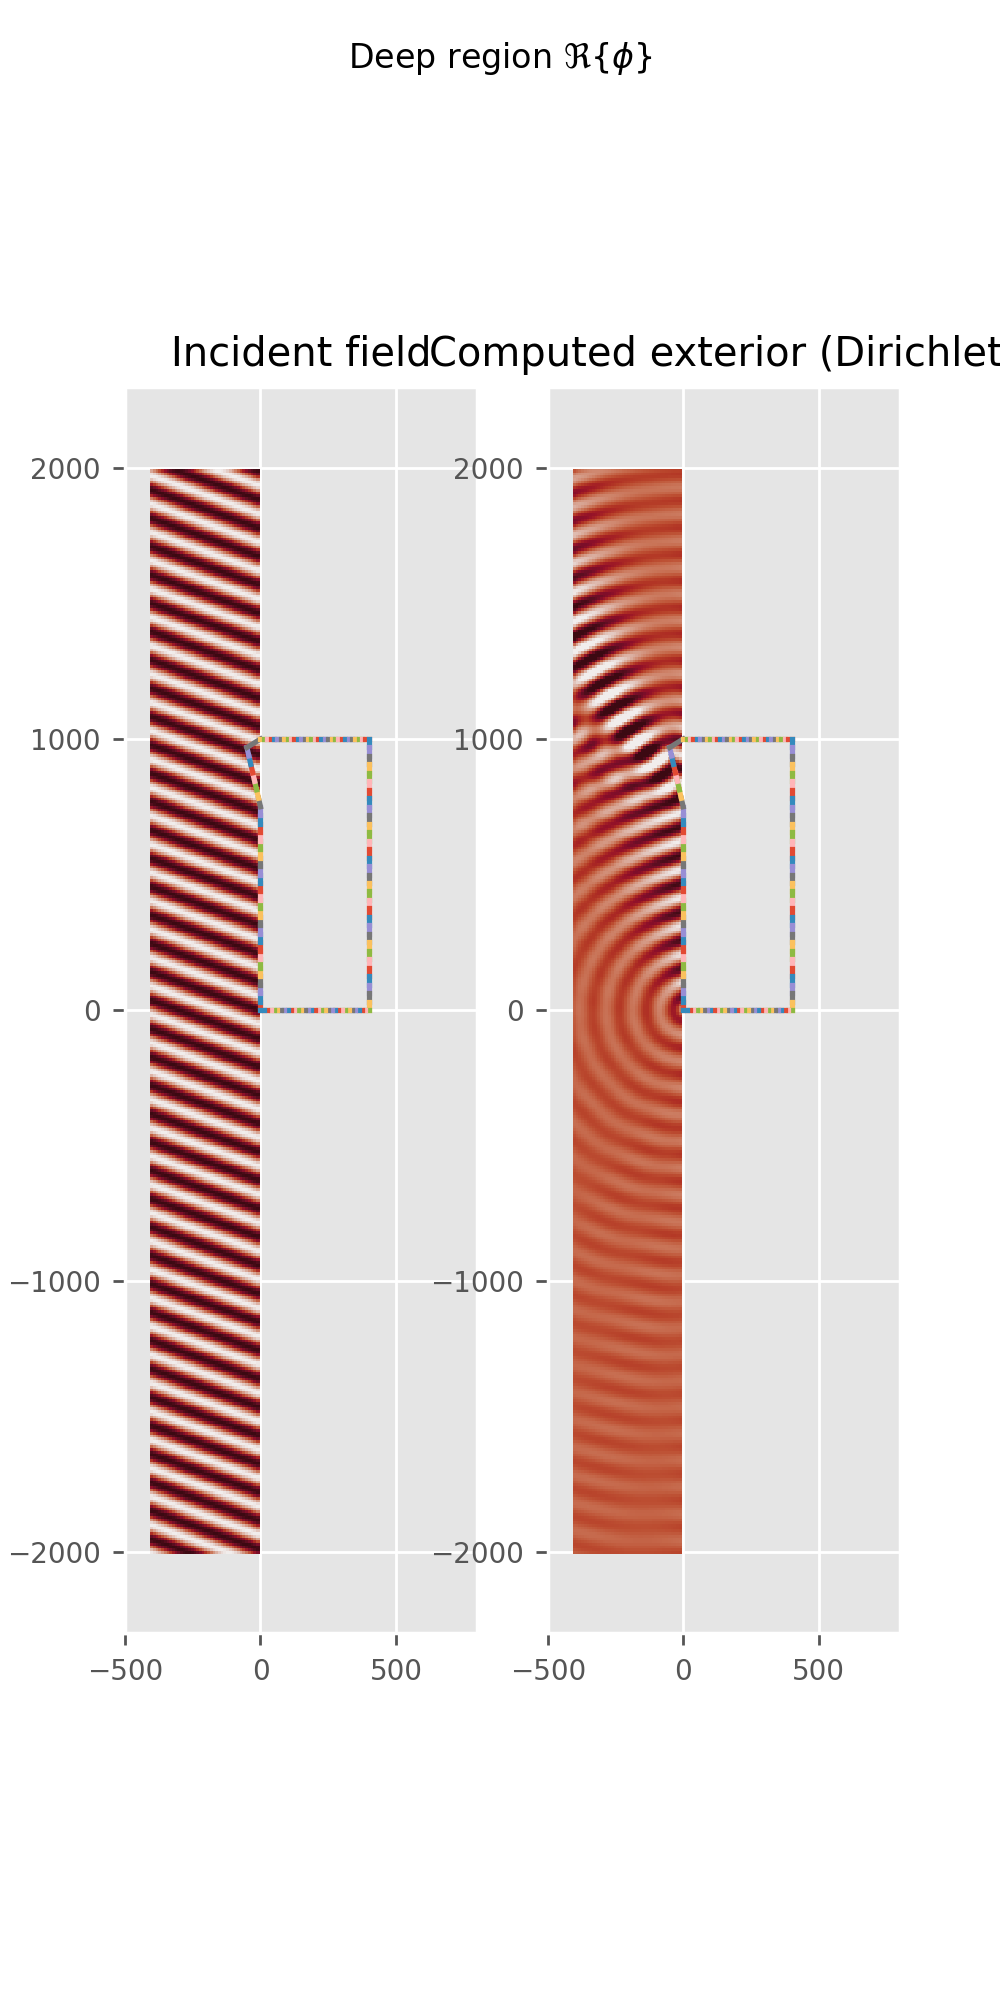
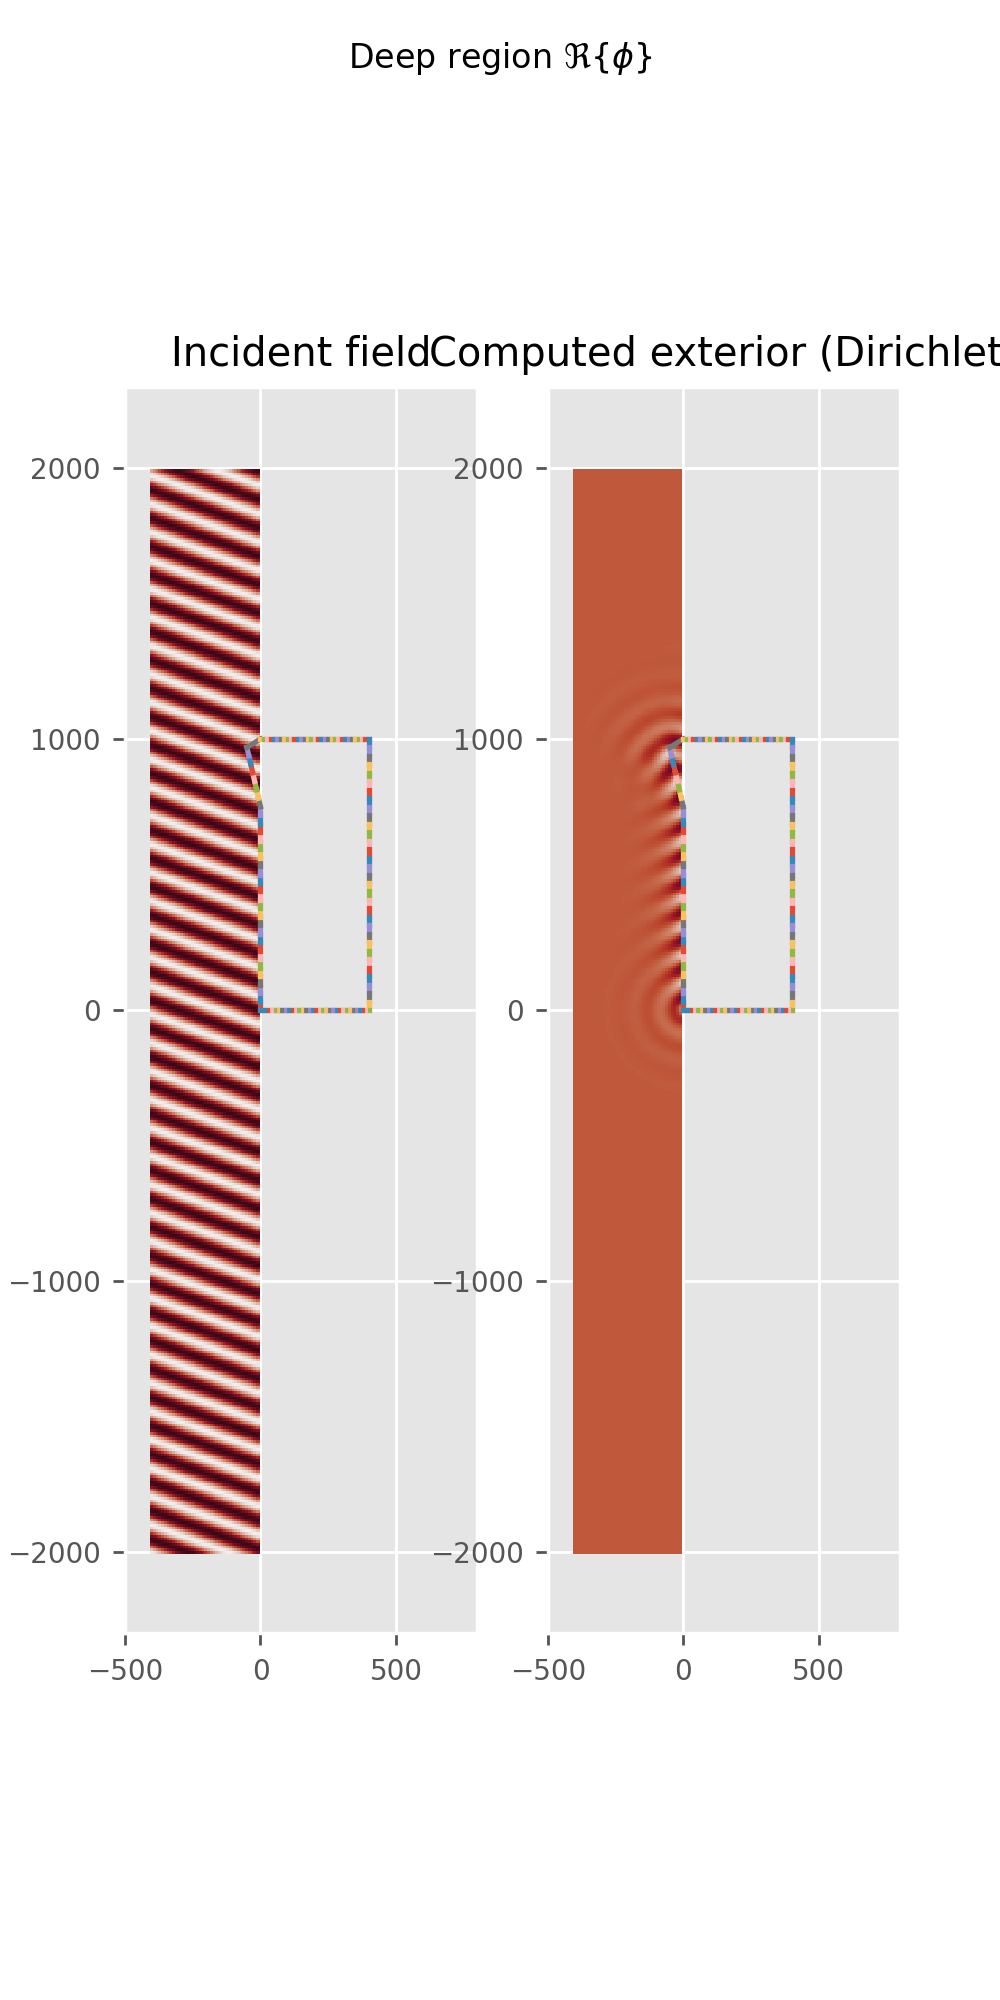
integrator, solver: allow complex wave number (positive imaginary part is attenuation)

Changed region(s): [[0.558, 0.217, 0.682, 0.651]]

diff --git a/src/integrators.rs b/src/integrators.rs
@@ -1,7 +1,7 @@
 use std::f64::consts::PI;
 
 use ndarray_linalg::Norm;
-use num::{complex::c64, Complex};
+use num::{complex::c64, complex::ComplexFloat, Complex};
 use numpy::{Complex64, PyReadonlyArrayDyn};
 use pyo3::prelude::*;
 
@@ -57,15 +57,14 @@ where
 /// p: point (center of edge)
 /// qa: first vertex of edge
 /// qb: second vertex of edge
-pub fn l_2d(k: f64, p: A2, qa: A2, qb: A2, p_on_element: bool) -> Complex<f64> {
-    assert!(k > 0.0, "wavenumber==0 not supported");
+pub fn l_2d(k: Complex64, p: A2, qa: A2, qb: A2, p_on_element: bool) -> Complex<f64> {
+    assert!(k.abs() > 0.0, "wavenumber==0 not supported");
 
     // TODO: Possibly put in a different function.
     if p_on_element {
         let int = |x: A2| -> Complex<f64> {
             let R = (p.to_owned() - x).norm_l2();
-            return 0.5 / PI * f64::ln(R)
-                + Complex::new(0.0, 0.25) * hankel1(0.0, Complex::new(k, 0.0) * R);
+            return 0.5 / PI * f64::ln(R) + Complex::new(0.0, 0.25) * hankel1(0.0, k * R);
         };
 
         let ra = (&p - &qa).norm_l2();
@@ -79,7 +78,7 @@ pub fn l_2d(k: f64, p: A2, qa: A2, qb: A2, p_on_element: bool) -> Complex<f64> {
         // complex quad
         Complex::new(0.0, 0.25)
             * complex_quad_2d(&qa, &qb, |q: A2| {
-                hankel1(0.0, Complex::new(k, 0.0) * (p.to_owned() - q).norm_l2())
+                hankel1(0.0, k * (p.to_owned() - q).norm_l2())
             })
     }
 }
@@ -90,8 +89,8 @@ pub fn l_2d(k: f64, p: A2, qa: A2, qb: A2, p_on_element: bool) -> Complex<f64> {
 /// p: point (center of edge)
 /// qa: first vertex of edge
 /// qb: second vertex of edge
-pub fn m_2d(k: f64, p: A2, qa: A2, qb: A2, p_on_element: bool) -> Complex<f64> {
-    assert!(k > 0.0, "wavenumber==0 not supported");
+pub fn m_2d(k: Complex64, p: A2, qa: A2, qb: A2, p_on_element: bool) -> Complex<f64> {
+    assert!(k.abs() > 0.0, "wavenumber==0 not supported");
 
     let (vecq, _) = normal_2d(qa, qb);
 
@@ -101,7 +100,7 @@ pub fn m_2d(k: f64, p: A2, qa: A2, qb: A2, p_on_element: bool) -> Complex<f64> {
         let int = |x: A2| {
             let r = p.to_owned() - x;
             let R = r.norm_l2();
-            return hankel1(1.0, Complex::new(k, 0.) * R) * r.dot(&vecq) / R;
+            return hankel1(1.0, k * R) * r.dot(&vecq) / R;
         };
 
         Complex::new(0., 0.25) * k * complex_quad_2d(&qa, &qb, int)
@@ -114,8 +113,8 @@ pub fn m_2d(k: f64, p: A2, qa: A2, qb: A2, p_on_element: bool) -> Complex<f64> {
 /// p: point (center of edge)
 /// qa: first vertex of edge
 /// qb: second vertex of edge
-pub fn mt_2d(k: f64, p: A2, vecp: A2, qa: A2, qb: A2, p_on_element: bool) -> Complex<f64> {
-    assert!(k > 0.0, "wavenumber==0 not supported");
+pub fn mt_2d(k: Complex64, p: A2, vecp: A2, qa: A2, qb: A2, p_on_element: bool) -> Complex<f64> {
+    assert!(k.abs() > 0.0, "wavenumber==0 not supported");
 
     if p_on_element {
         Complex::new(0.0, 0.0)
@@ -123,7 +122,7 @@ pub fn mt_2d(k: f64, p: A2, vecp: A2, qa: A2, qb: A2, p_on_element: bool) -> Com
         let int = |x: A2| {
             let r = p.to_owned() - x;
             let R = r.norm_l2();
-            return hankel1(1.0, Complex::new(k, 0.) * R) * r.dot(&vecp) / R;
+            return hankel1(1.0, k * R) * r.dot(&vecp) / R;
         };
 
         Complex::new(0., -0.25) * k * complex_quad_2d(&qa, &qb, int)
@@ -136,8 +135,8 @@ pub fn mt_2d(k: f64, p: A2, vecp: A2, qa: A2, qb: A2, p_on_element: bool) -> Com
 /// p: point (center of edge)
 /// qa: first vertex of edge
 /// qb: second vertex of edge
-pub fn n_2d(k: f64, p: A2, vecp: A2, qa: A2, qb: A2, p_on_element: bool) -> Complex<f64> {
-    assert!(k > 0.0, "wavenumber==0 not supported");
+pub fn n_2d(k: Complex64, p: A2, vecp: A2, qa: A2, qb: A2, p_on_element: bool) -> Complex<f64> {
+    assert!(k.abs() > 0.0, "wavenumber==0 not supported");
 
     let (vecq, _) = normal_2d(qa, qb);
 
@@ -155,12 +154,12 @@ pub fn n_2d(k: f64, p: A2, vecp: A2, qa: A2, qb: A2, p_on_element: bool) -> Comp
             let drdudrdn = -r.dot(&vecq) * r.dot(&vecp) / R2;
             let dpnu = vecp.dot(&vecq);
 
-            let hkr = hankel1(1., c64(k, 0.) * R);
+            let hkr = hankel1(1., k * R);
 
             let c1 = c64(0., 0.25) * k / R * hkr - 0.5 / (PI * R2);
 
             let c2 = c64(0., 0.5) * k / R * hkr
-                - c64(0., 0.25) * ksq * hankel1(0., c64(k, 0.) * R)
+                - c64(0., 0.25) * ksq * hankel1(0., k * R)
                 - 1.0 / (PI * R2);
 
             let c3 = -0.25 * ksq * R.ln() / PI;
@@ -188,7 +187,6 @@ pub fn n_2d(k: f64, p: A2, vecp: A2, qa: A2, qb: A2, p_on_element: bool) -> Comp
             let drdudrdn = -r.dot(&vecq) * r.dot(&vecp) / r.dot(&r);
             let R = r.norm_l2();
 
-            let k = c64(k, 0.);
             return hankel1(1., k * R) / R * (un + 2. * drdudrdn)
                 - k * hankel1(0., k * R) * drdudrdn;
         };
@@ -210,15 +208,15 @@ pub fn l_2d_py<'py>(
     let qa = qa.as_array().into_shape((2,)).unwrap();
     let qb = qb.as_array().into_shape((2,)).unwrap();
 
-    l_2d(k, p, qa, qb, p_on_element)
+    l_2d(c64(k, 0.), p, qa, qb, p_on_element)
 }
 
 #[cfg(test)]
 mod tests {
     use super::*;
+    use ndarray::Array1;
     use numpy::array;
     use std::sync::LazyLock;
-    use ndarray::Array1;
 
     const a: LazyLock<Array1<f64>> = LazyLock::new(|| array![0.5, 0.00]);
     const b: LazyLock<Array1<f64>> = LazyLock::new(|| array![0.0, 0.25]);
@@ -293,13 +291,13 @@ mod tests {
         let gld = Complex::new(-0.38848700688676e-2, 0.18666063352484e-1);
         let k = 16.0;
         // p_on_element = False
-        let r = l_2d(k, p_off.view(), a.view(), b.view(), false);
+        let r = l_2d(k.into(), p_off.view(), a.view(), b.view(), false);
         approx::assert_abs_diff_eq!(r, gld, epsilon = 1e-6);
 
         let gld = c64(-0.10438221373809e-1, 0.26590088538927e-1);
         let k = 16.0;
 
-        let r = l_2d(k, p_on.view(), a.view(), b.view(), true);
+        let r = l_2d(k.into(), p_on.view(), a.view(), b.view(), true);
         approx::assert_abs_diff_eq!(r, gld, epsilon = 1e-6);
     }
 
@@ -308,11 +306,11 @@ mod tests {
         let gld = c64(-0.295962840153050, -0.65862830497453e-1);
         let k = 16.0;
 
-        let r = m_2d(k, p_off.view(), a.view(), b.view(), false);
+        let r = m_2d(k.into(), p_off.view(), a.view(), b.view(), false);
         approx::assert_abs_diff_eq!(r, gld, epsilon = 1e-6);
 
         let gld = c64(0.00000000000000, 0.00000000000000);
-        let r = m_2d(k, p_on.view(), a.view(), b.view(), true);
+        let r = m_2d(k.into(), p_on.view(), a.view(), b.view(), true);
         approx::assert_abs_diff_eq!(r, gld, epsilon = 1e-6);
     }
 
@@ -320,11 +318,25 @@ mod tests {
     fn test_mt_2d() {
         let gld = c64(0.27354006901263, 0.59196279619442e-1);
         let k = 16.0;
-        let r = mt_2d(k, p_off.view(), n_p_off.view(), a.view(), b.view(), false);
+        let r = mt_2d(
+            k.into(),
+            p_off.view(),
+            n_p_off.view(),
+            a.view(),
+            b.view(),
+            false,
+        );
         approx::assert_abs_diff_eq!(r, gld, epsilon = 1e-6);
 
         let gld = c64(0.0, 0.0);
-        let r = mt_2d(k, p_on.view(), n_p_on.view(), a.view(), b.view(), true);
+        let r = mt_2d(
+            k.into(),
+            p_on.view(),
+            n_p_on.view(),
+            a.view(),
+            b.view(),
+            true,
+        );
         approx::assert_abs_diff_eq!(r, gld, epsilon = 1e-6);
     }
 
@@ -332,11 +344,25 @@ mod tests {
     fn test_n_2d() {
         let gld = c64(-0.99612499996911e+00, 0.43379540259270e+01);
         let k = 16.0;
-        let r = n_2d(k, p_off.view(), n_p_off.view(), a.view(), b.view(), false);
+        let r = n_2d(
+            k.into(),
+            p_off.view(),
+            n_p_off.view(),
+            a.view(),
+            b.view(),
+            false,
+        );
         approx::assert_abs_diff_eq!(r, gld, epsilon = 1e-5);
 
         let gld = c64(-0.40622369223044e+00, 0.85946767167784e+01);
-        let r = n_2d(k, p_on.view(), n_p_on.view(), a.view(), b.view(), true);
+        let r = n_2d(
+            k.into(),
+            p_on.view(),
+            n_p_on.view(),
+            a.view(),
+            b.view(),
+            true,
+        );
         approx::assert_abs_diff_eq!(r, gld, epsilon = 1e-5);
     }
 }

diff --git a/src/solver.rs b/src/solver.rs
@@ -27,13 +27,13 @@ impl Solver {
     pub fn solve_boundary(
         &self,
         orientation: Orientation,
-        k: f64,
+        k: Complex64,
         celerity: f64,
         boundary_condition: BoundaryCondition,
         boundary_incidence: BoundaryIncidence,
         mu: Option<Complex64>,
     ) -> BoundarySolution {
-        let mu = mu.unwrap_or(Complex64::new(0., 1.) / Complex64::new(k + 1., 0.));
+        let mu = mu.unwrap_or(Complex64::new(0., 1.) / (k + 1.));
 
         assert_eq!(boundary_condition.len(), self.len());
         assert_eq!(boundary_incidence.len(), self.len());
@@ -77,7 +77,7 @@ impl Solver {
 impl Solver {
     pub fn compute_boundary_matrices(
         &self,
-        k: f64,
+        k: Complex64,
         mu: Complex64,
         orientation: Orientation,
     ) -> (Array2<Complex64>, Array2<Complex64>) {
@@ -214,7 +214,7 @@ fn solve_linear_equation(
 #[derive(Clone)]
 pub struct BoundarySolution {
     solver: Solver,
-    k: f64,
+    k: Complex64,
     celerity: f64,
     orientation: Orientation,
     boundary_condition: BoundaryCondition,
@@ -231,7 +231,7 @@ impl BoundarySolution {
         solver: Solver,
         orientation: Orientation,
         bc: BoundaryCondition,
-        k: f64,
+        k: Complex64,
         celerity: f64,
         phis: Array1<Complex64>,
         velocities: Array1<Complex64>,
@@ -354,7 +354,7 @@ mod tests {
         let bi = region.boundary_incidence();
 
         let solver = Solver::new(region);
-        let bs = solver.solve_boundary(Orientation::Interior, k, 344.0, bc, bi, None);
+        let bs = solver.solve_boundary(Orientation::Interior, k.into(), 344.0, bc, bi, None);
 
         println!("{}", bs.phis);
 

diff --git a/examples/nazare_scatter.py b/examples/nazare_scatter.py
@@ -71,7 +71,7 @@ ax1.set_title('Incident field')
 
 # Solve boundary.
 solver = Solver(region)
-boundary_solution = solver.solve_boundary(Orientation.Exterior, k, c, bc, bi)
+boundary_solution = solver.solve_boundary(Orientation.Exterior, k+0.01j, c, bc, bi)
 
 # Solve samples in interior
 ep = np.vstack((xx.ravel(), yy.ravel())).T
